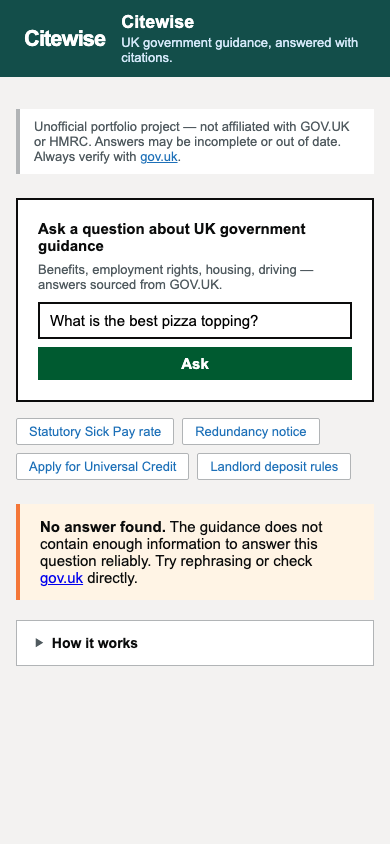
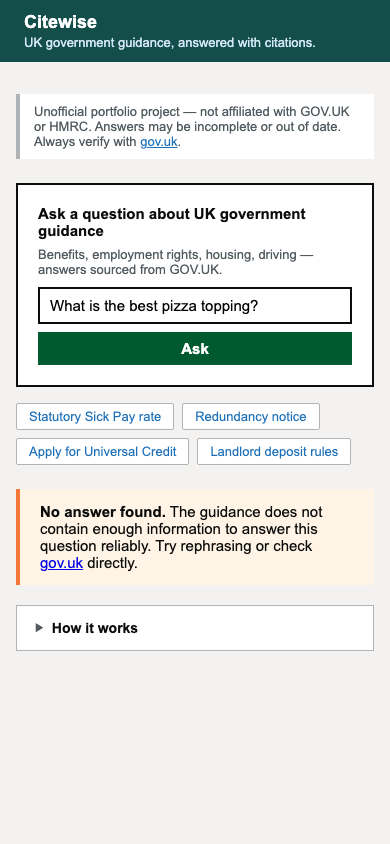
polish: single header title, budget midnight reset test, CV bullet, PLAN complete
- index.html: remove duplicate .crown "Citewise" div; header now shows the
  h1 title and subtitle only (dark teal design unchanged)
- tests/unit/test_api.py: add test_daily_budget_resets_at_utc_midnight to
  confirm the DailyBudget._roll() path clears spend at UTC day boundary
- README.md: clarify rate limiter resets on restart; spend cap resets at
  UTC midnight (not "on restart")
- private/interview_notes.md: CV bullet 1 now uses deployed L2_dense numbers
  (65.3% [56–74% CI], 89.8% hit@6, 96.7% refusal recall) instead of hybrid
- PLAN.md: mark project complete; add final numbers table and optional ideas
- images/: regenerate ui_answer_desktop, ui_refusal_phone (and add phone/
  desktop variants) from local server showing single-title header

Changed region(s): [[0.0308, 0.1232, 0.9538, 0.7701], [0.0, 0.0, 1.0, 0.1232], [0.0308, 0.6777, 0.0615, 0.7393]]

diff --git a/src/citewise/api/static/index.html b/src/citewise/api/static/index.html
@@ -278,9 +278,6 @@
 
 <header>
   <div>
-    <div class="crown">Citewise</div>
-  </div>
-  <div>
     <h1>Citewise</h1>
     <p>UK government guidance, answered with citations.</p>
   </div>

diff --git a/tests/unit/test_api.py b/tests/unit/test_api.py
@@ -105,6 +105,21 @@ def test_daily_budget_blocks_after_cap() -> None:
     assert budget.exhausted()
 
 
+def test_daily_budget_resets_at_utc_midnight(monkeypatch: pytest.MonkeyPatch) -> None:
+    """Spend accumulated on day 1 is cleared when UTC date advances to day 2."""
+    from citewise.api.budget import DailyBudget
+
+    monkeypatch.setattr(DailyBudget, "_today", staticmethod(lambda: "2024-01-01"))
+    budget = DailyBudget(cap_gbp=0.001)
+    budget.add(0.001)
+    assert budget.exhausted()
+
+    monkeypatch.setattr(DailyBudget, "_today", staticmethod(lambda: "2024-01-02"))
+    assert not budget.exhausted()
+    assert budget._spent == 0.0
+    assert budget._day == "2024-01-02"
+
+
 def test_rate_limit_uses_forwarded_address() -> None:
     from starlette.requests import Request
 

diff --git a/PLAN.md b/PLAN.md
@@ -287,42 +287,36 @@ Exact pinned versions will be in `pyproject.toml` after `uv pip compile` or equi
 
 ---
 
+## Final numbers (test split, 128 questions)
+
+| Config | Correct | Fully faithful | Made-up | Refusal recall | False refusal | Hit@6 | p50 ms |
+|---|---|---|---|---|---|---|---|
+| hybrid_400_rerank | 73.5% [64–82%] | 71.6% | 20.0% [12–28%] | 96.7% | 4.1% | 92.9% | 528 |
+| dense_400 | 69.4% [60–78%] | 83.3% | 8.3% [3–14%] | 93.3% | 4.1% | 89.8% | 934 |
+| **L2_dense (deployed)** | **65.3% [56–74%]** | **83.0%** | **7.4% [3–13%]** | **96.7%** | **5.1%** | **89.8%** | **1,330** |
+
+95% bootstrap CIs (1,000 resamples, seed 42). Full CIs in `eval/results/bootstrap_cis_test.json`.
+
 ## Budget tracker
 
-| Phase | Estimated Nebius cost | Actual |
-|-------|-----------------------|--------|
-| Phase 4 candidate generation | ~$0.50 | [TBC] |
-| Phase 5 dev experiments (A–E) | ~$3–8 | [TBC] |
-| Phase 5 test run | ~$2–5 | [TBC] |
-| **Total** | **<$30** | **[TBC]** |
+| Phase | Actual |
+|-------|--------|
+| Question generation (Qwen3-235B) | ~$0.10 |
+| Dev + test eval runs (Qwen3-235B generator + Qwen3-30B verifier) | ~£0.41 |
+| Judge calls (DeepSeek-V4.1-Flash) | not separately metered |
+| **Total Nebius** | **well under $30** |
 
 Gemini: $0 (free tier only).
 
 ---
 
-*Last updated: Phase 0 setup.*
+## Status: COMPLETE
 
----
+All phases done as of 2026-11-25. Remaining optional ideas:
 
-## Finish session
-
-Goal: make Citewise recruiter-ready (Parts 1 to 9 of the finish prompt).
-
-**Done**
-- Code-review bug fixes (`d44cbe8`).
-- Render deployment, live demo defaults to `dense_400` to fit 512 MB (`5a8b193`).
-- Part 2: percentage metrics, DeepSeek judge, experiment runner (`bb09782`).
-
-**In progress**
-- Part 1 (subagent): eval set with ground truth, unanswerable and adversarial questions, dev/test re-split. Files are uncommitted until reviewed.
-- Part 3 (parametric leakage): design settled, code not yet written. Plan: `answer_v2` prompt, `guardrails.verify_claims`, small-to-big context, `top_k_context` 6 vs 10, deterministic point IDs (`uuid5`) plus `position` payload, then configs A, B, C, D, E and L.
-
-**Next**
-1. Review and commit Part 1.
-2. Implement Part 3 with unit tests; rebuild the local index; run dev experiments; choose the config on dev; run test once for the final config, A and L; make charts.
-3. Parts 4 to 9: hand-check CSVs (user fills `human_ok`), deployment memory and cold start, integration tests and CI, README rewrite, interview notes, independent review.
-
-**For the user**
-- Rotate the Qdrant API key (Qdrant dashboard, then Render env var, then `.env`).
-- Add the `NEBIUS_API_KEY` GitHub secret for the smoke-eval CI job.
+- Human-validate a sample of the 190 ground-truth questions (the main honesty gap).
+- Enlarge the dev set to 150+ questions so single-answer noise is under 2 points.
+- Re-run eval after corpus updates to track metric drift.
+- Add a nightly Langfuse monitor alert for unusual refusal rates.
+- Persistent rate-limit counters (Redis) so a Render restart cannot reset them.
 - Fill `human_ok` in both hand-check CSVs and record the demo GIF.

diff --git a/README.md b/README.md
@@ -105,8 +105,8 @@ treat that improvement as anecdotal.
   in the results table above; the correctness interval for L2_dense spans 56–74%.
 - **The fixes are not shown to help on test.** See above.
 - **Live behaviour:** some answerable questions are still refused, in line with the 5.1% test false-refusal rate (for example "What are the Council Tax bands?", because the added Council Tax band page is a lookup service and does not list band values). "What is the State Pension age?" now answers with a citation after the corpus extension, but it says the guidance gives no fixed age. The API returns every retrieved source; the web page shows the sources the answer cites `[n]` first and puts the rest under "Other pages searched". Eval metric definitions are unchanged: they still score the full retrieved list.
-- **Live-service limits are in memory:** the rate limiter (10 per minute) and the daily spend cap
-  (£0.50) reset on restart.
+- **Live-service limits are in memory:** the rate limiter (10 per minute) resets on restart; the
+  daily spend cap (£0.50) resets at UTC midnight.
 
 ## How it works
 
